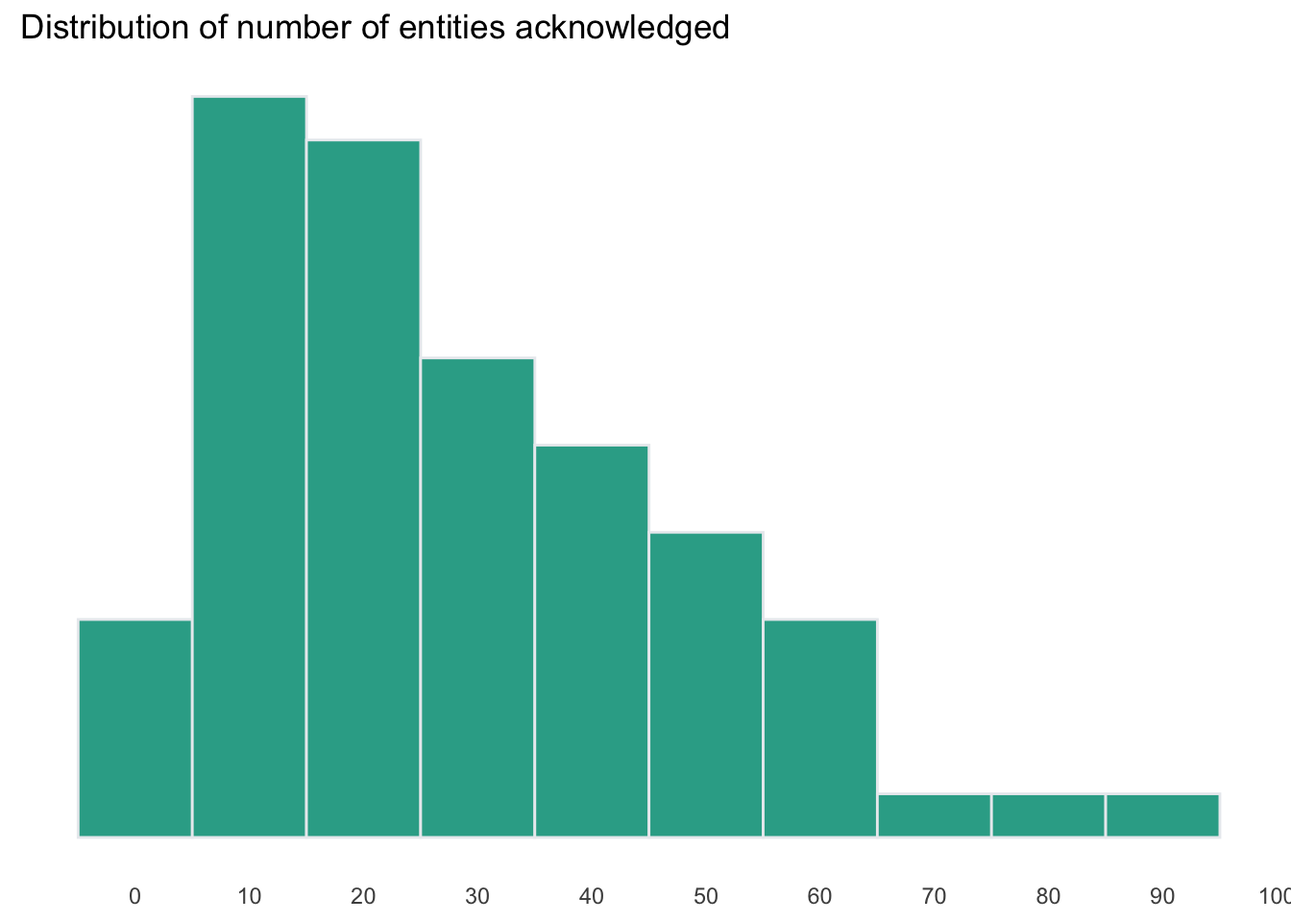
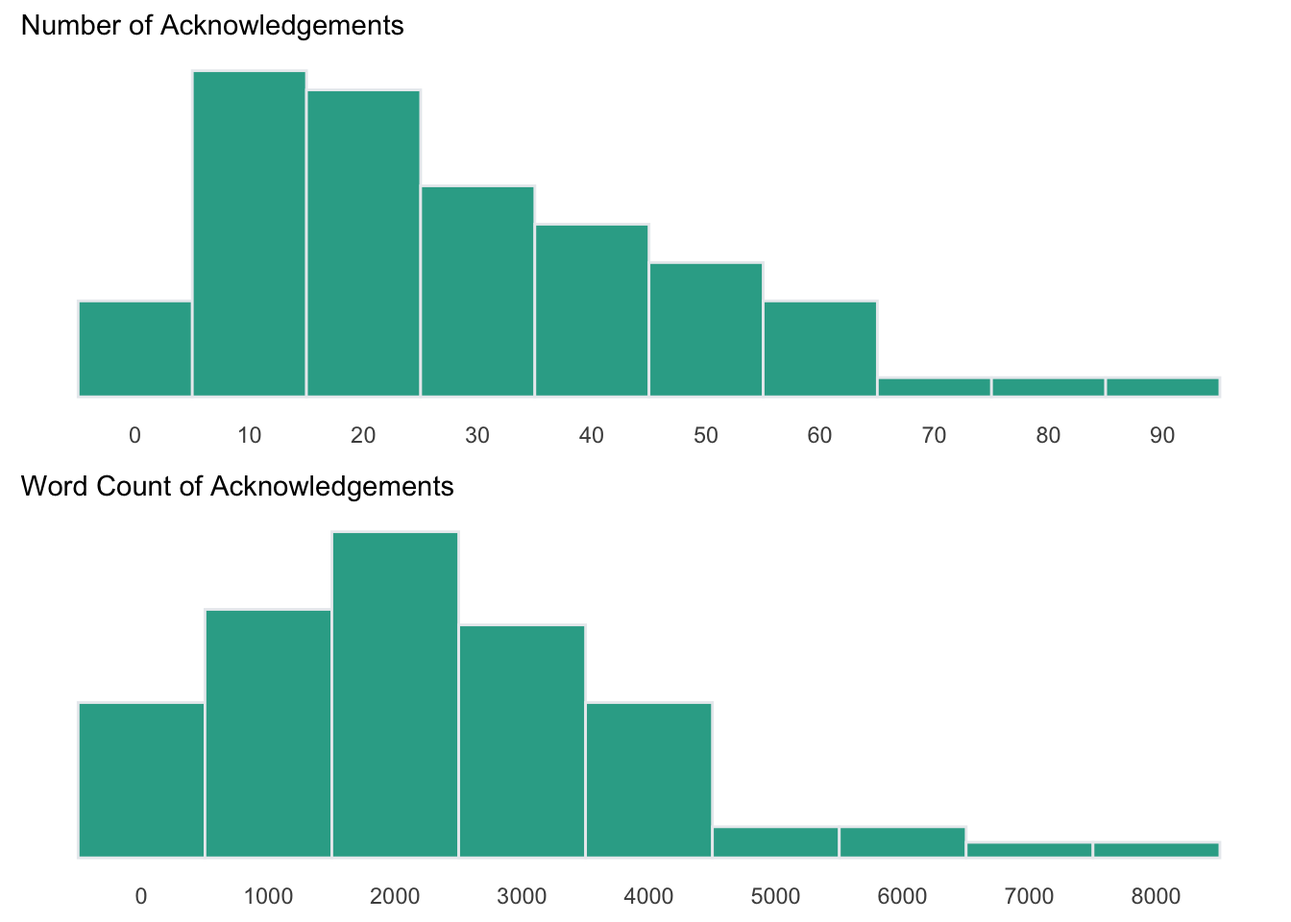
Improving formatting on charts

diff --git a/first_observations.html b/first_observations.html
@@ -318,17 +318,17 @@ $(document).ready(function () {
 <p>For the purposes of this analysis I’ve organized these entities into three broader categories: agencies, organizations, and individuals. The charts below highlight the entities (agencies, organizations, and individuals) that were shouted out the most by the debut authors.</p>
 <p>If we look across all entities we see a mix of agencies and organizations on the leaderboard. You’ll notice only one individual make the top ten overall list. That individual is none other than… <strong>Katie!</strong></p>
 <p>(I found it amusing that 1 out of every 7 debut authors acknowledged someone named Katie… I know, I know, there are lots of Katies out there supporting the arts, but… it’s really hard to get into Bread Loaf or Tin House. Finding a Katie to stan my work, though? Feels more doable.)</p>
-<p><img src="first_observations_files/figure-html/most_thanked_entities-1.png" width="672" /></p>
-<p><img src="first_observations_files/figure-html/most_thanked_agencies-1.png" width="672" /></p>
-<p><img src="first_observations_files/figure-html/most_thanked_individuals-1.png" width="672" /></p>
+<p><strong>Most acknowledged:</strong></p>
+<p><img src="first_observations_files/figure-html/acknowledgement_plots-1.png" width="672" /></p>
 <blockquote>
 <p>How many people does it take to write a novel? (spoiler: a small to medium sized village)</p>
 </blockquote>
 <p>We looked at who’s getting shoutouts, now let’s look at how many shoutouts our debut authors are giving. Below is the distribution of the number of entities thanked across all of our authors. So how big a village does it take to write a novel?</p>
-<p><strong>The short answer? 30.</strong></p>
+<p>The short answer? 30.</p>
 <p>Most debut novelists acknowledge 29 people or more – call it 30 if we include the author who… probably did the most work?</p>
 <p>The minimum number of entities acknowledged is… 0. (Whomp whomp whomp.) And the maximum is a much more bustling village of 88.</p>
-<p><img src="first_observations_files/figure-html/n_entities_thanked-1.png" width="672" /></p>
+<p><strong>Distribution of number and length of acknowledgements:</strong></p>
+<p><img src="first_observations_files/figure-html/n_entities_thanked,%20-1.png" width="480" /></p>
 <blockquote>
 <p>But, like, do they all have fancy MFAs and exclusive residencies? Are all these award winning debut novelists best friends? Because it kind of seems like they are on Twitter…</p>
 </blockquote>
@@ -353,9 +353,9 @@ $(document).ready(function () {
 </ul>
 <p>The bigger the bubble and the more central the bubble is in the chart the more important that bubble is to the social network. So the biggest bubble (Bread Loaf) represents the node in the network that is most central.</p>
 <p>You can click on the bubbles to see what other entities they are connected to. You can also drag the bubbles around to see what amount of force they exert on the network. (The more the network moves with the bubble, the bigger its influence.)</p>
-<p><strong>Social network of 80 award nominated debut authors</strong></p>
-<div id="htmlwidget-16216a22cdf2e69a267a" style="width:672px;height:480px;" class="forceNetwork html-widget"></div>
-<script type="application/json" data-for="htmlwidget-16216a22cdf2e69a267a">{"x":{"links":{"source":[36,62,15,33,37,23,55,31,29,16,38,6,14,28,40,38,55,54,51,54,51,20,39,10,33,61,23,30,28,54,51,0,30,6,5,5,67,10,53,12,55,46,29,51,15,37,3,16,34,58,3,9,14,58,26,60,21,36,31,1,37,52,26,55,13,2,46,11,22,11,58,23,2,58,41,45,12,46,17,70,54,33,53,6,22,46,52,43,3,34,69,6,44,9,40,30,11,21,31,29,20,24,48,63,15,6,54,51,14,41,31,29,36,39,3,4,19,17,29,24,46,19,64,32,19,2,29,21,1,35,43,55,26,26,2,42,8,54,74,27,8,63,31,29,37,3,32,37,59,60,29,66,48,53,46,8,53,13,50,22,46,58,3,34,12,45,6,52,8,4,17,7,34,45,3,31,29,14,28,15,31,72,54,51,26,26,43,16,21,16,20,6,21,19,57,25,6,6,39,19,58,0,4,61,43,23,41,14,28,36,19,41,38,28,71,57,45,30,47,21,29,31,16,56,42,32,52,18,23,41,32,40,34,3,19,15,57,26,11,57,25,36,29,13,53,33,7,25,57,55,26,4,52,37,4,25,1,40,41,54,12,52,51,27,2,28,14,13,12,29,57,25,13,50,56,4,19,11,29,41,19,36,38,64,36,31,66,10,35,15,25,12,53,62,14,65,20,39,51,54,27,30,28,51,3,34,5,53,75,17,22,41,10,53,4,12,63,20,25,6,2,1,54,11,31,7,18,20,68,28,12,36,9,19,24,31,29,5,18,37,15,67,3,38,69,65,21,58,28,53,5,59,49,16,52,50,37,21,49,73,0,45,25,47,52,41,36,61,38,25],"target":[196,183,183,116,116,116,116,130,130,88,88,88,99,99,99,138,138,142,142,144,144,112,112,178,178,178,178,124,124,143,143,76,76,210,9,9,185,96,96,96,96,96,96,96,96,96,96,217,217,151,151,151,215,157,157,157,157,133,133,77,77,77,159,159,214,148,148,148,148,148,148,148,148,161,161,46,180,180,180,191,160,160,91,91,115,115,139,139,83,83,176,176,176,176,176,190,94,94,128,128,110,110,201,224,87,87,146,146,182,126,126,126,126,199,206,173,173,106,106,188,167,167,167,167,80,80,56,170,170,170,170,158,158,221,171,171,171,171,171,171,212,195,131,131,84,84,175,175,175,175,175,175,141,141,92,92,97,97,114,114,114,193,82,82,25,89,89,86,86,86,86,86,81,81,81,132,132,101,101,102,102,194,145,145,189,122,122,104,104,184,39,90,90,90,117,117,45,45,45,162,162,162,162,162,162,162,162,98,98,108,108,108,125,125,192,140,140,113,113,113,127,127,103,103,136,136,136,107,107,135,135,135,149,149,156,156,154,154,154,119,119,129,129,155,155,211,211,118,118,121,121,207,85,85,85,44,78,78,78,147,147,147,147,147,147,100,100,95,95,95,120,120,181,202,152,152,152,58,109,109,109,109,198,198,134,134,209,93,93,163,163,163,163,163,64,169,111,111,123,123,123,222,222,204,172,174,174,174,203,218,187,187,164,164,164,164,164,164,164,164,164,79,79,179,177,177,177,186,186,186,213,208,208,208,208,208,208,208,220,225,216,219,150,150,223,205,205,153,153,153,153,153,105,105,105,165,165,165,197,197,168,168,168,200,200,137,137,166,166,166],"colour":["FFFFFF","FFFFFF","FFFFFF","FFFFFF","FFFFFF","FFFFFF","FFFFFF","FFFFFF","FFFFFF","FFFFFF","FFFFFF","FFFFFF","FFFFFF","FFFFFF","FFFFFF","FFFFFF","FFFFFF","FFFFFF","FFFFFF","FFFFFF","FFFFFF","FFFFFF","FFFFFF","FFFFFF","FFFFFF","FFFFFF","FFFFFF","FFFFFF","FFFFFF","FFFFFF","FFFFFF","FFFFFF","FFFFFF","FFFFFF","FFFFFF","FFFFFF","FFFFFF","FFFFFF","FFFFFF","FFFFFF","FFFFFF","FFFFFF","FFFFFF","FFFFFF","FFFFFF","FFFFFF","FFFFFF","FFFFFF","FFFFFF","FFFFFF","FFFFFF","FFFFFF","FFFFFF","FFFFFF","FFFFFF","FFFFFF","FFFFFF","FFFFFF","FFFFFF","FFFFFF","FFFFFF","FFFFFF","FFFFFF","FFFFFF","FFFFFF","FFFFFF","FFFFFF","FFFFFF","FFFFFF","FFFFFF","FFFFFF","FFFFFF","FFFFFF","FFFFFF","FFFFFF","FFFFFF","FFFFFF","FFFFFF","FFFFFF","FFFFFF","FFFFFF","FFFFFF","FFFFFF","FFFFFF","FFFFFF","FFFFFF","FFFFFF","FFFFFF","FFFFFF","FFFFFF","FFFFFF","FFFFFF","FFFFFF","FFFFFF","FFFFFF","FFFFFF","FFFFFF","FFFFFF","FFFFFF","FFFFFF","FFFFFF","FFFFFF","FFFFFF","FFFFFF","FFFFFF","FFFFFF","FFFFFF","FFFFFF","FFFFFF","FFFFFF","FFFFFF","FFFFFF","FFFFFF","FFFFFF","FFFFFF","FFFFFF","FFFFFF","FFFFFF","FFFFFF","FFFFFF","FFFFFF","FFFFFF","FFFFFF","FFFFFF","FFFFFF","FFFFFF","FFFFFF","FFFFFF","FFFFFF","FFFFFF","FFFFFF","FFFFFF","FFFFFF","FFFFFF","FFFFFF","FFFFFF","FFFFFF","FFFFFF","FFFFFF","FFFFFF","FFFFFF","FFFFFF","FFFFFF","FFFFFF","FFFFFF","FFFFFF","FFFFFF","FFFFFF","FFFFFF","FFFFFF","FFFFFF","FFFFFF","FFFFFF","FFFFFF","FFFFFF","FFFFFF","FFFFFF","FFFFFF","FFFFFF","FFFFFF","FFFFFF","FFFFFF","FFFFFF","FFFFFF","FFFFFF","FFFFFF","FFFFFF","FFFFFF","FFFFFF","FFFFFF","FFFFFF","FFFFFF","FFFFFF","FFFFFF","FFFFFF","FFFFFF","FFFFFF","FFFFFF","FFFFFF","FFFFFF","FFFFFF","FFFFFF","FFFFFF","FFFFFF","FFFFFF","FFFFFF","FFFFFF","FFFFFF","FFFFFF","FFFFFF","FFFFFF","FFFFFF","FFFFFF","FFFFFF","FFFFFF","FFFFFF","FFFFFF","FFFFFF","FFFFFF","FFFFFF","FFFFFF","FFFFFF","FFFFFF","FFFFFF","FFFFFF","FFFFFF","FFFFFF","FFFFFF","FFFFFF","FFFFFF","FFFFFF","FFFFFF","FFFFFF","FFFFFF","FFFFFF","FFFFFF","FFFFFF","FFFFFF","FFFFFF","FFFFFF","FFFFFF","FFFFFF","FFFFFF","FFFFFF","FFFFFF","FFFFFF","FFFFFF","FFFFFF","FFFFFF","FFFFFF","FFFFFF","FFFFFF","FFFFFF","FFFFFF","FFFFFF","FFFFFF","FFFFFF","FFFFFF","FFFFFF","FFFFFF","FFFFFF","FFFFFF","FFFFFF","FFFFFF","FFFFFF","FFFFFF","FFFFFF","FFFFFF","FFFFFF","FFFFFF","FFFFFF","FFFFFF","FFFFFF","FFFFFF","FFFFFF","FFFFFF","FFFFFF","FFFFFF","FFFFFF","FFFFFF","FFFFFF","FFFFFF","FFFFFF","FFFFFF","FFFFFF","FFFFFF","FFFFFF","FFFFFF","FFFFFF","FFFFFF","FFFFFF","FFFFFF","FFFFFF","FFFFFF","FFFFFF","FFFFFF","FFFFFF","FFFFFF","FFFFFF","FFFFFF","FFFFFF","FFFFFF","FFFFFF","FFFFFF","FFFFFF","FFFFFF","FFFFFF","FFFFFF","FFFFFF","FFFFFF","FFFFFF","FFFFFF","FFFFFF","FFFFFF","FFFFFF","FFFFFF","FFFFFF","FFFFFF","FFFFFF","FFFFFF","FFFFFF","FFFFFF","FFFFFF","FFFFFF","FFFFFF","FFFFFF","FFFFFF","FFFFFF","FFFFFF","FFFFFF","FFFFFF","FFFFFF","FFFFFF","FFFFFF","FFFFFF","FFFFFF","FFFFFF","FFFFFF","FFFFFF","FFFFFF","FFFFFF","FFFFFF","FFFFFF","FFFFFF","FFFFFF","FFFFFF","FFFFFF","FFFFFF","FFFFFF","FFFFFF","FFFFFF","FFFFFF","FFFFFF","FFFFFF","FFFFFF","FFFFFF","FFFFFF","FFFFFF","FFFFFF","FFFFFF","FFFFFF","FFFFFF","FFFFFF","FFFFFF","FFFFFF","FFFFFF","FFFFFF","FFFFFF","FFFFFF","FFFFFF","FFFFFF","FFFFFF","FFFFFF","FFFFFF","FFFFFF","FFFFFF","FFFFFF","FFFFFF","FFFFFF","FFFFFF","FFFFFF","FFFFFF","FFFFFF","FFFFFF","FFFFFF","FFFFFF","FFFFFF","FFFFFF","FFFFFF","FFFFFF"]},"nodes":{"name":["Charlie Kaufman","K-Ming Chang","Afia Atakora","Kelli Jo Ford","Chelsea Bieker","C Pam Zhang","Kate Milliken","Raven Leilani","Kate Elizabeth Russell","Brandon Taylor","Kawai Strong Washburn","Hilary Leichter","Diane Zinna","Sahar Mustafah","Alka Joshi","Clare Beams","Maisy Card","Nancy Wayson Dinan","Celia Laskey","Elizabeth Wetmore","Susie Yang","Melissa Rivero","Lauren Wilkinson","Pitchaya Sudbanthad","Cara Wall","Julia Phillips","Dana Czapnik","Joanne Ramos","Miciah Bay Gault","De'Shawn Charles Winslow","Chanelle Benz","Claire Lombardo","Namwali Serpell","Ocean Vuong","Lauren Acampora","Fernando A. Flores","Chia-Chia Lin","Maurice Carlos Ruffin","Jasmin Darznik","Lucy Tan","Melissa Broder","Fatima Farheen Mirza","Jen Beagin","Moriel Rothman-Zecher","Rachel Lyon","Lydia Kiesling","Crystal Hana Kim","Lexi Freiman","Lillian Li","Nafkote Tamirat","Elaine Castillo","Xhenet Aliu","Jordy Rosenberg","Blair Hurley","Paula Saunders","Kaitlyn Greenidge","Helen Phillips","Garth Risk Hallberg","Ruchika Tomar","Ryan Chapman","Dan Sheehan","Tommy Orange","Corey Sobel","Rachel Eve Moulton","Shobha Rao","Callan Wink","Amina Cain","Kate Petty Reed","Joe Wilkins","Jake Wolff","Elvia Wilk","Tope Folarin","Mathangi Subramanian","Ta-Nahisi Coates","Tadzio Koelb","Lisa Halliday","Ben Greenberg","Chris Jackson","Rachel Rokicki","Toni Morrison","Helen Garnons-Williams","Katie Raissian","Judy Hottensen","Deb Seager","James Nolan","Rachel Kushner","Katie","Emily Mahon","Amy Hempel","Kara Levy","Luis Alberto Urrea","Darin Strauss","Jessica Williams","Sean McDonald","Dennis Norris II","Rebecca Makkai","Bread Loaf","Jill Bialosky","Margaret Marbury","Amy Jones","Randy Chan","Laura Gianino","Lee Boudreaux","Michael Cunningham","Lisa Ko","Victor LaValle","Grace McNamee","Michelle Koufopoulos","Marilynne Robinson","Samantha Chang","Elizabeth Breeden","Stephen Hogsten","Angela Wu","Megan Lynch","John Freeman","David Ebershoff","Alexander Chee","Lydia Buechler","Paul Bogaards","Nicholas Latimer","Robin Desser","Peter Carey","Lisa Keim","Susan Kamil","Arthur Flowers","Mary Karr","Ethan Canin","Mia Bailey","Drew Calvert","Noel Carver","Amanda Dennis","Jade Jones","Kevin Smith","Charlie DAmbrosio","Sarah Frye","Molly Stern","Michael Taeckens","Wystan Owen","Andra Miller","David Shulman","Max Magee","Jeffrey Eugenides","Andrea Walker","Avideh Bashirrad","Andy Ward","Leigh Marchant","Emma Caruso","Random House","Columbia University","Morgan Entrekin","University of Texas","Cal Morgan","Rona Jaffe Foundation","Vermont Studio Center","New York Foundation for the Arts","Norton","National Endowment for the Arts","Center for Fiction","Hunter","Colleges MFA","Dana","Creative Writing Department","MacDowell","Sewanee","Tin House","VONA","Yaddo","Hedgebrook","William Morris Endeavor","Steinberg Agency","HG Literary","ICM","The Cheney Agency","Georges Borchardt","The Clegg Agency","Janklow & Nesbit","DeFiore and Company","Trident Media Group","Aragi, Inc.","Triangle House Literary","Curtis Brown","Robin Straus Agency","Emma Sweeney Agency","Aevitas Creative Management","Liza Dawson Associates","Brandt & Hochman","Union Literary","The Wylie Agency","Harvey Klinger","Levine Greenberg Rostan","Denise Shannon Literary Agency","Cynthia Cannell Literary Agency","Massie and McQuilkin","Joy Harris Literary Agency","Leigh Feldman Literary","Inkwell Management","3 Arts Entertainment","Watkins/Loomis Agency","Sandra Dijkstra Literary Agency","Fletcher & Company","Writers House","Elyse Cheney Agency","Rogers, Coleridge & White","The Genert Company","The Book Group","University of Wyoming","George Mason University","Portland State University","University of Iowa","School of the Art Institute of Chicago","Bennington Writing Seminars","NYU","Indiana University","University of Florida","Columbia College","California College of Arts","University of North Carolina at Greensboro","Brooklyn College","The Ohio State University","University of St. Andrews","University of New Mexico","Hunter College","Syracuse","University of Wisconsin-Madison","Emerson College","University of New Orleans"],"group":["Debut Author","Debut Author","Debut Author","Debut Author","Debut Author","Debut Author","Debut Author","Debut Author","Debut Author","Debut Author","Debut Author","Debut Author","Debut Author","Debut Author","Debut Author","Debut Author","Debut Author","Debut Author","Debut Author","Debut Author","Debut Author","Debut Author","Debut Author","Debut Author","Debut Author","Debut Author","Debut Author","Debut Author","Debut Author","Debut Author","Debut Author","Debut Author","Debut Author","Debut Author","Debut Author","Debut Author","Debut Author","Debut Author","Debut Author","Debut Author","Debut Author","Debut Author","Debut Author","Debut Author","Debut Author","Debut Author","Debut Author","Debut Author","Debut Author","Debut Author","Debut Author","Debut Author","Debut Author","Debut Author","Debut Author","Debut Author","Debut Author","Debut Author","Debut Author","Debut Author","Debut Author","Debut Author","Debut Author","Debut Author","Debut Author","Debut Author","Debut Author","Debut Author","Debut Author","Debut Author","Debut Author","Debut Author","Debut Author","Debut Author","Debut Author","Debut Author","Individual","Individual","Individual","Individual","Individual","Individual","Individual","Individual","Individual","Individual","Individual","Individual","Individual","Individual","Individual","Individual","Individual","Individual","Individual","Individual","Organization","Individual","Individual","Individual","Individual","Individual","Individual","Individual","Individual","Individual","Individual","Individual","Individual","Individual","Individual","Individual","Individual","Individual","Individual","Individual","Individual","Individual","Individual","Individual","Individual","Individual","Individual","Individual","Individual","Individual","Individual","Individual","Individual","Individual","Individual","Individual","Individual","Individual","Individual","Individual","Individual","Individual","Individual","Individual","Individual","Individual","Individual","Individual","Individual","Individual","Individual","Organization","Organization","Organization","Organization","Organization","Organization","Organization","Organization","Organization","Organization","Organization","Organization","Organization","Organization","Organization","Organization","Organization","Organization","Organization","Organization","Organization","Agency","Agency","Agency","Agency","Agency","Agency","Agency","Agency","Agency","Agency","Agency","Agency","Agency","Agency","Agency","Agency","Agency","Agency","Agency","Agency","Agency","Agency","Agency","Agency","Agency","Agency","Agency","Agency","Agency","Agency","Agency","Agency","Agency","Agency","Agency","Agency","Agency","Individual","Organization","Individual","Individual","Individual","Individual","Individual","Individual","Individual","Individual","Individual","Individual","Organization","Individual","Individual","Individual","Individual","Individual","Organization","Organization","Individual"],"nodesize":[0,0,0,0,0,1,1,0,0,1,0,0,0,0,0,0,0,0,0,0,0,0,0,0,0,8,0,0,0,0,0,0,0,0,0,0,0,0,0,8,0,0,0,0,0,1,1,0,0,0,0,0,0,0,0,0,1,0,1,0,0,0,0,0,1,0,0,0,0,0,0,0,0,0,0,0,8,27,27,8,8,27,8,8,8,27,125,8,27,8,27,8,8,8,8,27,1000,8,8,27,8,8,8,8,8,27,8,8,27,64,8,8,8,27,27,8,64,8,8,8,8,8,8,27,8,8,64,8,8,8,8,8,8,8,8,27,27,8,8,8,8,8,8,8,8,8,8,216,512,8,8,27,27,125,27,8,8,64,8,8,8,8,512,125,729,27,27,64,27,1,64,216,1,8,27,216,125,27,64,1,27,1,1,8,1,1,27,8,1,1,1,1,1,1,1,1,1,8,8,1,8,1,1,1,1,8,1,1,343,1,1,8,1,1,1,1,1,8,1,1,1,1,8,1,1,1]},"options":{"NodeID":"name","Group":"group","colourScale":"d3.scaleOrdinal()\n            .domain([\"Debut Author\", \"Agency\", \"Organization\", \"Individual\"])\n           .range([\"#FF0000\", \"#F2AD00\", \"#00A08A\", \"#5BBCD6\"]);","fontSize":16,"fontFamily":"serif","clickTextSize":40,"linkDistance":50,"linkWidth":"function(d) { return Math.sqrt(d.value); }","charge":-30,"opacity":0.8,"zoom":false,"legend":true,"arrows":false,"nodesize":true,"radiusCalculation":" Math.sqrt(d.nodesize)+6","bounded":true,"opacityNoHover":0.5,"clickAction":null}},"evals":[],"jsHooks":[]}</script>
+<p><strong>Social network of 80 award nominated debut authors:</strong></p>
+<div id="htmlwidget-083c06df6104f3b567c7" style="width:100%;height:800px;" class="forceNetwork html-widget"></div>
+<script type="application/json" data-for="htmlwidget-083c06df6104f3b567c7">{"x":{"links":{"source":[36,62,15,33,37,23,55,31,29,16,38,6,14,28,40,38,55,54,51,54,51,20,39,10,33,61,23,30,28,54,51,0,30,6,5,5,67,10,53,12,55,46,29,51,15,37,3,16,34,58,3,9,14,58,26,60,21,36,31,1,37,52,26,55,13,2,46,11,22,11,58,23,2,58,41,45,12,46,17,70,54,33,53,6,22,46,52,43,3,34,69,6,44,9,40,30,11,21,31,29,20,24,48,63,15,6,54,51,14,41,31,29,36,39,3,4,19,17,29,24,46,19,64,32,19,2,29,21,1,35,43,55,26,26,2,42,8,54,74,27,8,63,31,29,37,3,32,37,59,60,29,66,48,53,46,8,53,13,50,22,46,58,3,34,12,45,6,52,8,4,17,7,34,45,3,31,29,14,28,15,31,72,54,51,26,26,43,16,21,16,20,6,21,19,57,25,6,6,39,19,58,0,4,61,43,23,41,14,28,36,19,41,38,28,71,57,45,30,47,21,29,31,16,56,42,32,52,18,23,41,32,40,34,3,19,15,57,26,11,57,25,36,29,13,53,33,7,25,57,55,26,4,52,37,4,25,1,40,41,54,12,52,51,27,2,28,14,13,12,29,57,25,13,50,56,4,19,11,29,41,19,36,38,64,36,31,66,10,35,15,25,12,53,62,14,65,20,39,51,54,27,30,28,51,3,34,5,53,75,17,22,41,10,53,4,12,63,20,25,6,2,1,54,11,31,7,18,20,68,28,12,36,9,19,24,31,29,5,18,37,15,67,3,38,69,65,21,58,28,53,5,59,49,16,52,50,37,21,49,73,0,45,25,47,52,41,36,61,38,25],"target":[196,183,183,116,116,116,116,130,130,88,88,88,99,99,99,138,138,142,142,144,144,112,112,178,178,178,178,124,124,143,143,76,76,210,9,9,185,96,96,96,96,96,96,96,96,96,96,217,217,151,151,151,215,157,157,157,157,133,133,77,77,77,159,159,214,148,148,148,148,148,148,148,148,161,161,46,180,180,180,191,160,160,91,91,115,115,139,139,83,83,176,176,176,176,176,190,94,94,128,128,110,110,201,224,87,87,146,146,182,126,126,126,126,199,206,173,173,106,106,188,167,167,167,167,80,80,56,170,170,170,170,158,158,221,171,171,171,171,171,171,212,195,131,131,84,84,175,175,175,175,175,175,141,141,92,92,97,97,114,114,114,193,82,82,25,89,89,86,86,86,86,86,81,81,81,132,132,101,101,102,102,194,145,145,189,122,122,104,104,184,39,90,90,90,117,117,45,45,45,162,162,162,162,162,162,162,162,98,98,108,108,108,125,125,192,140,140,113,113,113,127,127,103,103,136,136,136,107,107,135,135,135,149,149,156,156,154,154,154,119,119,129,129,155,155,211,211,118,118,121,121,207,85,85,85,44,78,78,78,147,147,147,147,147,147,100,100,95,95,95,120,120,181,202,152,152,152,58,109,109,109,109,198,198,134,134,209,93,93,163,163,163,163,163,64,169,111,111,123,123,123,222,222,204,172,174,174,174,203,218,187,187,164,164,164,164,164,164,164,164,164,79,79,179,177,177,177,186,186,186,213,208,208,208,208,208,208,208,220,225,216,219,150,150,223,205,205,153,153,153,153,153,105,105,105,165,165,165,197,197,168,168,168,200,200,137,137,166,166,166],"colour":["FFFFFF","FFFFFF","FFFFFF","FFFFFF","FFFFFF","FFFFFF","FFFFFF","FFFFFF","FFFFFF","FFFFFF","FFFFFF","FFFFFF","FFFFFF","FFFFFF","FFFFFF","FFFFFF","FFFFFF","FFFFFF","FFFFFF","FFFFFF","FFFFFF","FFFFFF","FFFFFF","FFFFFF","FFFFFF","FFFFFF","FFFFFF","FFFFFF","FFFFFF","FFFFFF","FFFFFF","FFFFFF","FFFFFF","FFFFFF","FFFFFF","FFFFFF","FFFFFF","FFFFFF","FFFFFF","FFFFFF","FFFFFF","FFFFFF","FFFFFF","FFFFFF","FFFFFF","FFFFFF","FFFFFF","FFFFFF","FFFFFF","FFFFFF","FFFFFF","FFFFFF","FFFFFF","FFFFFF","FFFFFF","FFFFFF","FFFFFF","FFFFFF","FFFFFF","FFFFFF","FFFFFF","FFFFFF","FFFFFF","FFFFFF","FFFFFF","FFFFFF","FFFFFF","FFFFFF","FFFFFF","FFFFFF","FFFFFF","FFFFFF","FFFFFF","FFFFFF","FFFFFF","FFFFFF","FFFFFF","FFFFFF","FFFFFF","FFFFFF","FFFFFF","FFFFFF","FFFFFF","FFFFFF","FFFFFF","FFFFFF","FFFFFF","FFFFFF","FFFFFF","FFFFFF","FFFFFF","FFFFFF","FFFFFF","FFFFFF","FFFFFF","FFFFFF","FFFFFF","FFFFFF","FFFFFF","FFFFFF","FFFFFF","FFFFFF","FFFFFF","FFFFFF","FFFFFF","FFFFFF","FFFFFF","FFFFFF","FFFFFF","FFFFFF","FFFFFF","FFFFFF","FFFFFF","FFFFFF","FFFFFF","FFFFFF","FFFFFF","FFFFFF","FFFFFF","FFFFFF","FFFFFF","FFFFFF","FFFFFF","FFFFFF","FFFFFF","FFFFFF","FFFFFF","FFFFFF","FFFFFF","FFFFFF","FFFFFF","FFFFFF","FFFFFF","FFFFFF","FFFFFF","FFFFFF","FFFFFF","FFFFFF","FFFFFF","FFFFFF","FFFFFF","FFFFFF","FFFFFF","FFFFFF","FFFFFF","FFFFFF","FFFFFF","FFFFFF","FFFFFF","FFFFFF","FFFFFF","FFFFFF","FFFFFF","FFFFFF","FFFFFF","FFFFFF","FFFFFF","FFFFFF","FFFFFF","FFFFFF","FFFFFF","FFFFFF","FFFFFF","FFFFFF","FFFFFF","FFFFFF","FFFFFF","FFFFFF","FFFFFF","FFFFFF","FFFFFF","FFFFFF","FFFFFF","FFFFFF","FFFFFF","FFFFFF","FFFFFF","FFFFFF","FFFFFF","FFFFFF","FFFFFF","FFFFFF","FFFFFF","FFFFFF","FFFFFF","FFFFFF","FFFFFF","FFFFFF","FFFFFF","FFFFFF","FFFFFF","FFFFFF","FFFFFF","FFFFFF","FFFFFF","FFFFFF","FFFFFF","FFFFFF","FFFFFF","FFFFFF","FFFFFF","FFFFFF","FFFFFF","FFFFFF","FFFFFF","FFFFFF","FFFFFF","FFFFFF","FFFFFF","FFFFFF","FFFFFF","FFFFFF","FFFFFF","FFFFFF","FFFFFF","FFFFFF","FFFFFF","FFFFFF","FFFFFF","FFFFFF","FFFFFF","FFFFFF","FFFFFF","FFFFFF","FFFFFF","FFFFFF","FFFFFF","FFFFFF","FFFFFF","FFFFFF","FFFFFF","FFFFFF","FFFFFF","FFFFFF","FFFFFF","FFFFFF","FFFFFF","FFFFFF","FFFFFF","FFFFFF","FFFFFF","FFFFFF","FFFFFF","FFFFFF","FFFFFF","FFFFFF","FFFFFF","FFFFFF","FFFFFF","FFFFFF","FFFFFF","FFFFFF","FFFFFF","FFFFFF","FFFFFF","FFFFFF","FFFFFF","FFFFFF","FFFFFF","FFFFFF","FFFFFF","FFFFFF","FFFFFF","FFFFFF","FFFFFF","FFFFFF","FFFFFF","FFFFFF","FFFFFF","FFFFFF","FFFFFF","FFFFFF","FFFFFF","FFFFFF","FFFFFF","FFFFFF","FFFFFF","FFFFFF","FFFFFF","FFFFFF","FFFFFF","FFFFFF","FFFFFF","FFFFFF","FFFFFF","FFFFFF","FFFFFF","FFFFFF","FFFFFF","FFFFFF","FFFFFF","FFFFFF","FFFFFF","FFFFFF","FFFFFF","FFFFFF","FFFFFF","FFFFFF","FFFFFF","FFFFFF","FFFFFF","FFFFFF","FFFFFF","FFFFFF","FFFFFF","FFFFFF","FFFFFF","FFFFFF","FFFFFF","FFFFFF","FFFFFF","FFFFFF","FFFFFF","FFFFFF","FFFFFF","FFFFFF","FFFFFF","FFFFFF","FFFFFF","FFFFFF","FFFFFF","FFFFFF","FFFFFF","FFFFFF","FFFFFF","FFFFFF","FFFFFF","FFFFFF","FFFFFF","FFFFFF","FFFFFF","FFFFFF","FFFFFF","FFFFFF","FFFFFF","FFFFFF","FFFFFF","FFFFFF","FFFFFF","FFFFFF","FFFFFF","FFFFFF","FFFFFF","FFFFFF","FFFFFF","FFFFFF","FFFFFF","FFFFFF","FFFFFF","FFFFFF","FFFFFF","FFFFFF","FFFFFF","FFFFFF","FFFFFF","FFFFFF","FFFFFF","FFFFFF","FFFFFF","FFFFFF","FFFFFF","FFFFFF","FFFFFF","FFFFFF","FFFFFF","FFFFFF","FFFFFF","FFFFFF","FFFFFF","FFFFFF"]},"nodes":{"name":["Charlie Kaufman","K-Ming Chang","Afia Atakora","Kelli Jo Ford","Chelsea Bieker","C Pam Zhang","Kate Milliken","Raven Leilani","Kate Elizabeth Russell","Brandon Taylor","Kawai Strong Washburn","Hilary Leichter","Diane Zinna","Sahar Mustafah","Alka Joshi","Clare Beams","Maisy Card","Nancy Wayson Dinan","Celia Laskey","Elizabeth Wetmore","Susie Yang","Melissa Rivero","Lauren Wilkinson","Pitchaya Sudbanthad","Cara Wall","Julia Phillips","Dana Czapnik","Joanne Ramos","Miciah Bay Gault","De'Shawn Charles Winslow","Chanelle Benz","Claire Lombardo","Namwali Serpell","Ocean Vuong","Lauren Acampora","Fernando A. Flores","Chia-Chia Lin","Maurice Carlos Ruffin","Jasmin Darznik","Lucy Tan","Melissa Broder","Fatima Farheen Mirza","Jen Beagin","Moriel Rothman-Zecher","Rachel Lyon","Lydia Kiesling","Crystal Hana Kim","Lexi Freiman","Lillian Li","Nafkote Tamirat","Elaine Castillo","Xhenet Aliu","Jordy Rosenberg","Blair Hurley","Paula Saunders","Kaitlyn Greenidge","Helen Phillips","Garth Risk Hallberg","Ruchika Tomar","Ryan Chapman","Dan Sheehan","Tommy Orange","Corey Sobel","Rachel Eve Moulton","Shobha Rao","Callan Wink","Amina Cain","Kate Petty Reed","Joe Wilkins","Jake Wolff","Elvia Wilk","Tope Folarin","Mathangi Subramanian","Ta-Nahisi Coates","Tadzio Koelb","Lisa Halliday","Ben Greenberg","Chris Jackson","Rachel Rokicki","Toni Morrison","Helen Garnons-Williams","Katie Raissian","Judy Hottensen","Deb Seager","James Nolan","Rachel Kushner","Katie","Emily Mahon","Amy Hempel","Kara Levy","Luis Alberto Urrea","Darin Strauss","Jessica Williams","Sean McDonald","Dennis Norris II","Rebecca Makkai","Bread Loaf","Jill Bialosky","Margaret Marbury","Amy Jones","Randy Chan","Laura Gianino","Lee Boudreaux","Michael Cunningham","Lisa Ko","Victor LaValle","Grace McNamee","Michelle Koufopoulos","Marilynne Robinson","Samantha Chang","Elizabeth Breeden","Stephen Hogsten","Angela Wu","Megan Lynch","John Freeman","David Ebershoff","Alexander Chee","Lydia Buechler","Paul Bogaards","Nicholas Latimer","Robin Desser","Peter Carey","Lisa Keim","Susan Kamil","Arthur Flowers","Mary Karr","Ethan Canin","Mia Bailey","Drew Calvert","Noel Carver","Amanda Dennis","Jade Jones","Kevin Smith","Charlie DAmbrosio","Sarah Frye","Molly Stern","Michael Taeckens","Wystan Owen","Andra Miller","David Shulman","Max Magee","Jeffrey Eugenides","Andrea Walker","Avideh Bashirrad","Andy Ward","Leigh Marchant","Emma Caruso","Random House","Columbia University","Morgan Entrekin","University of Texas","Cal Morgan","Rona Jaffe Foundation","Vermont Studio Center","New York Foundation for the Arts","Norton","National Endowment for the Arts","Center for Fiction","Hunter","Colleges MFA","Dana","Creative Writing Department","MacDowell","Sewanee","Tin House","VONA","Yaddo","Hedgebrook","William Morris Endeavor","Steinberg Agency","HG Literary","ICM","The Cheney Agency","Georges Borchardt","The Clegg Agency","Janklow & Nesbit","DeFiore and Company","Trident Media Group","Aragi, Inc.","Triangle House Literary","Curtis Brown","Robin Straus Agency","Emma Sweeney Agency","Aevitas Creative Management","Liza Dawson Associates","Brandt & Hochman","Union Literary","The Wylie Agency","Harvey Klinger","Levine Greenberg Rostan","Denise Shannon Literary Agency","Cynthia Cannell Literary Agency","Massie and McQuilkin","Joy Harris Literary Agency","Leigh Feldman Literary","Inkwell Management","3 Arts Entertainment","Watkins/Loomis Agency","Sandra Dijkstra Literary Agency","Fletcher & Company","Writers House","Elyse Cheney Agency","Rogers, Coleridge & White","The Genert Company","The Book Group","University of Wyoming","George Mason University","Portland State University","University of Iowa","School of the Art Institute of Chicago","Bennington Writing Seminars","NYU","Indiana University","University of Florida","Columbia College","California College of Arts","University of North Carolina at Greensboro","Brooklyn College","The Ohio State University","University of St. Andrews","University of New Mexico","Hunter College","Syracuse","University of Wisconsin-Madison","Emerson College","University of New Orleans"],"group":["Debut Author","Debut Author","Debut Author","Debut Author","Debut Author","Debut Author","Debut Author","Debut Author","Debut Author","Debut Author","Debut Author","Debut Author","Debut Author","Debut Author","Debut Author","Debut Author","Debut Author","Debut Author","Debut Author","Debut Author","Debut Author","Debut Author","Debut Author","Debut Author","Debut Author","Debut Author","Debut Author","Debut Author","Debut Author","Debut Author","Debut Author","Debut Author","Debut Author","Debut Author","Debut Author","Debut Author","Debut Author","Debut Author","Debut Author","Debut Author","Debut Author","Debut Author","Debut Author","Debut Author","Debut Author","Debut Author","Debut Author","Debut Author","Debut Author","Debut Author","Debut Author","Debut Author","Debut Author","Debut Author","Debut Author","Debut Author","Debut Author","Debut Author","Debut Author","Debut Author","Debut Author","Debut Author","Debut Author","Debut Author","Debut Author","Debut Author","Debut Author","Debut Author","Debut Author","Debut Author","Debut Author","Debut Author","Debut Author","Debut Author","Debut Author","Debut Author","Individual","Individual","Individual","Individual","Individual","Individual","Individual","Individual","Individual","Individual","Individual","Individual","Individual","Individual","Individual","Individual","Individual","Individual","Individual","Individual","Organization","Individual","Individual","Individual","Individual","Individual","Individual","Individual","Individual","Individual","Individual","Individual","Individual","Individual","Individual","Individual","Individual","Individual","Individual","Individual","Individual","Individual","Individual","Individual","Individual","Individual","Individual","Individual","Individual","Individual","Individual","Individual","Individual","Individual","Individual","Individual","Individual","Individual","Individual","Individual","Individual","Individual","Individual","Individual","Individual","Individual","Individual","Individual","Individual","Individual","Individual","Organization","Organization","Organization","Organization","Organization","Organization","Organization","Organization","Organization","Organization","Organization","Organization","Organization","Organization","Organization","Organization","Organization","Organization","Organization","Organization","Organization","Agency","Agency","Agency","Agency","Agency","Agency","Agency","Agency","Agency","Agency","Agency","Agency","Agency","Agency","Agency","Agency","Agency","Agency","Agency","Agency","Agency","Agency","Agency","Agency","Agency","Agency","Agency","Agency","Agency","Agency","Agency","Agency","Agency","Agency","Agency","Agency","Agency","Individual","Organization","Individual","Individual","Individual","Individual","Individual","Individual","Individual","Individual","Individual","Individual","Organization","Individual","Individual","Individual","Individual","Individual","Organization","Organization","Individual"],"nodesize":[0,0,0,0,0,1,1,0,0,1,0,0,0,0,0,0,0,0,0,0,0,0,0,0,0,8,0,0,0,0,0,0,0,0,0,0,0,0,0,8,0,0,0,0,0,1,1,0,0,0,0,0,0,0,0,0,1,0,1,0,0,0,0,0,1,0,0,0,0,0,0,0,0,0,0,0,8,27,27,8,8,27,8,8,8,27,125,8,27,8,27,8,8,8,8,27,1000,8,8,27,8,8,8,8,8,27,8,8,27,64,8,8,8,27,27,8,64,8,8,8,8,8,8,27,8,8,64,8,8,8,8,8,8,8,8,27,27,8,8,8,8,8,8,8,8,8,8,216,512,8,8,27,27,125,27,8,8,64,8,8,8,8,512,125,729,27,27,64,27,1,64,216,1,8,27,216,125,27,64,1,27,1,1,8,1,1,27,8,1,1,1,1,1,1,1,1,1,8,8,1,8,1,1,1,1,8,1,1,343,1,1,8,1,1,1,1,1,8,1,1,1,1,8,1,1,1]},"options":{"NodeID":"name","Group":"group","colourScale":"d3.scaleOrdinal()\n            .domain([\"Debut Author\", \"Agency\", \"Organization\", \"Individual\"])\n           .range([\"#FF0000\", \"#F2AD00\", \"#00A08A\", \"#5BBCD6\"]);","fontSize":16,"fontFamily":"serif","clickTextSize":40,"linkDistance":50,"linkWidth":"function(d) { return Math.sqrt(d.value); }","charge":-30,"opacity":0.8,"zoom":false,"legend":true,"arrows":false,"nodesize":true,"radiusCalculation":" Math.sqrt(d.nodesize)+6","bounded":false,"opacityNoHover":0.4,"clickAction":null}},"evals":[],"jsHooks":[]}</script>
 </div>
 
 
